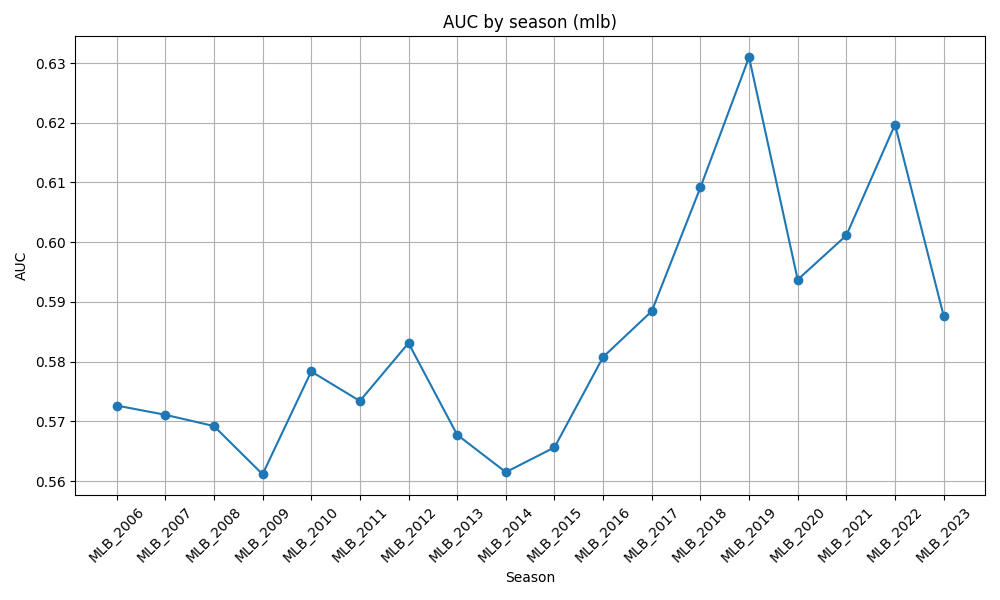
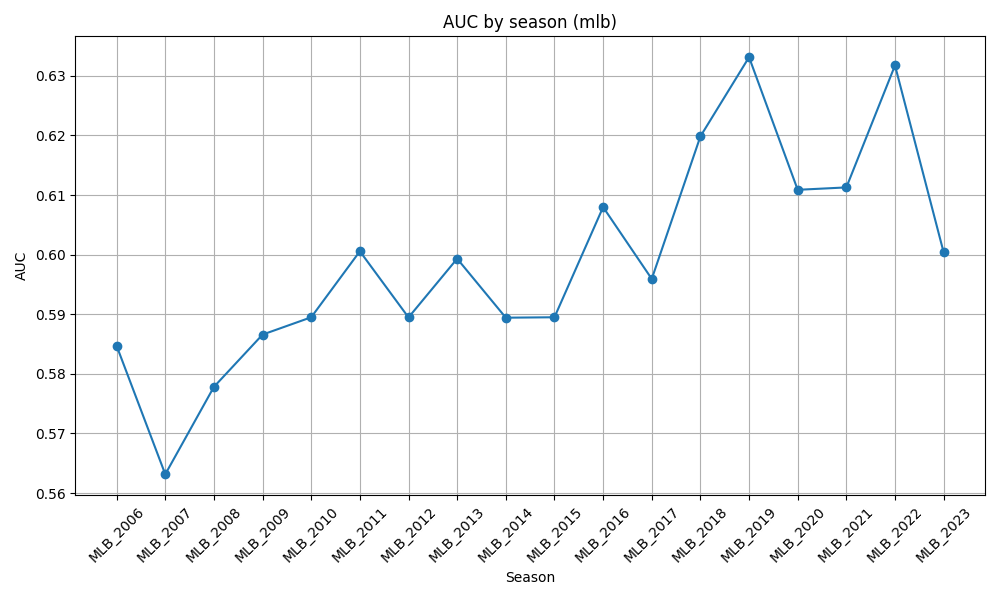
seasonal auc

diff --git a/src/analysis/seasonal_auc.py b/src/analysis/seasonal_auc.py
@@ -5,7 +5,7 @@ from sklearn.metrics import roc_auc_score
 
 # calculates AUC for entirety of league by season
 
-league = "nfl"
+league = "mlb"
 df = pd.read_csv(f'processed_data/{league}_espn_combined.csv')
 
 season_groups = df.groupby('tournament')
